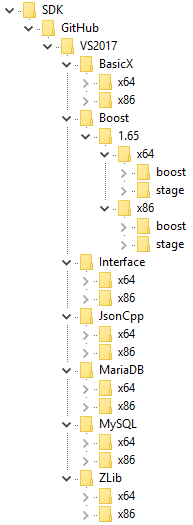
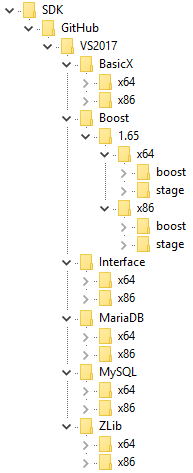
release version 2018-08-17

Changed region(s): [[0.2176, 0.0, 0.9637, 1.0], [0.1244, 0.0, 0.1865, 0.0888], [0.0311, 0.0, 0.0622, 0.0296]]

diff --git a/readme.md b/readme.md
@@ -9,15 +9,14 @@ Currently provide Microsoft Visual Studio 2017 support only.
 </div>
 Change the value of "SDKDIR_PATH" in other project's main CMakeLists.txt file to your sdk libraries' folder path.
 <br>You'd better recompile these sdk libraries under your development environment.
-<br>Latest version: 2018-06-05
+<br>Latest version: 2018-08-17
 <br>
 
 | library | version |
 | - | - |
-| BasicX | V0.5.3-Beta Build 20180601 |
+| BasicX | V0.5.4-Beta Build 20180809 |
 | Boost | V1.65.1 |
-| Interface | APE, CTP_F, LTS, TDB, TDF |
-| JsonCpp | V0.6.0-rc2 |
+| Interface | APE, CTP_F, LTS, TDB, TDF, VIP |
 | MariaDB | V10.2.9 |
 | MySQL | V6.1.11 (5.7.16) |
-| ZLib | V1.2.8 |
+| ZLib | V1.2.11 |

diff --git a/changes.md b/changes.md
@@ -1,4 +1,13 @@
 
+2018-08-17:
+| type | library | version |
+| :-: | - | - |
+| + | BasicX | V0.5.4-Beta Build 20180809 |
+| + | Interface | VIP |
+| - | JsonCpp | V0.6.0-rc2 |
+| + | ZLib | V1.2.11 |
+<br>
+
 2018-06-05:
 | type | library | version |
 | :-: | - | - |
